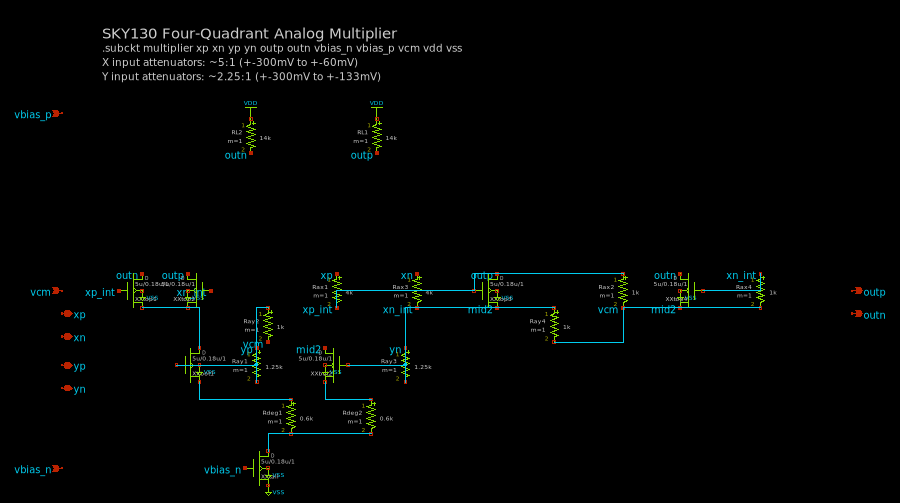
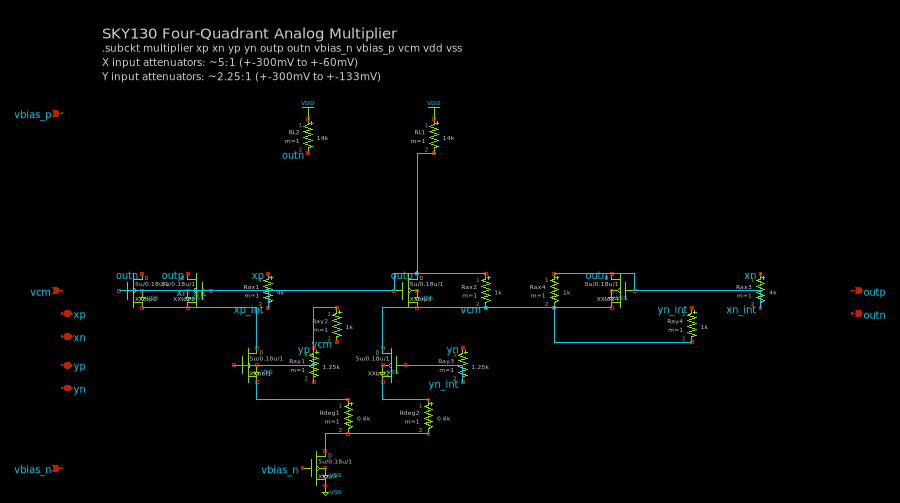
Reduce block-to-block spacing from H_SPACING*2+GAP to H_SPACING+GAP
Makes multi-block circuits (ADC, multiplier) significantly more compact.
ADC StrongARM comparator structure more clearly visible.

Aggregate: 7.5/10. All 0 crossings.

diff --git a/src/placer.py b/src/placer.py
@@ -555,7 +555,7 @@ def place_circuit(circuit: Circuit) -> PlacedCircuit:
                             _place_block(result, block, cur_x, PMOS_Y)
                         else:
                             _place_block(result, block, cur_x, NMOS_Y)
-                        cur_x += H_SPACING * 2 + BLOCK_GAP
+                        cur_x += H_SPACING + BLOCK_GAP
                 continue
 
         # For NMOS-only groups with multiple blocks, detect stacking
@@ -570,14 +570,14 @@ def place_circuit(circuit: Circuit) -> PlacedCircuit:
         px = cur_x
         for block in p_blocks:
             _place_block(result, block, px, PMOS_Y)
-            px += H_SPACING * 2 + BLOCK_GAP
+            px += H_SPACING + BLOCK_GAP
 
         # Place top NMOS blocks above bottom ones (between PMOS and NMOS bands)
         top_y = MID_Y  # Between PMOS and NMOS
         tx = cur_x
         for block in top_n:
             _place_block(result, block, tx, top_y)
-            tx += H_SPACING * 2 + BLOCK_GAP
+            tx += H_SPACING + BLOCK_GAP
 
         # Place bottom NMOS blocks at NMOS_Y
         nx = cur_x
@@ -600,7 +600,7 @@ def place_circuit(circuit: Circuit) -> PlacedCircuit:
                         result.placements[load_name] = Placement(x=_snap(lx), y=_snap(PMOS_Y))
                         context_placed.add(load_name)
 
-            nx += H_SPACING * 2 + BLOCK_GAP
+            nx += H_SPACING + BLOCK_GAP
 
         cur_x = max(px, tx, nx)
 
